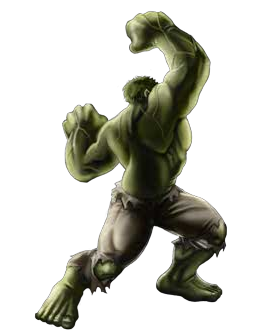
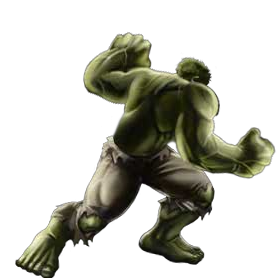
add sprites to all existing characters for jump, hit, and portrait.

diff --git a/js/images.js b/js/images.js
@@ -4,12 +4,15 @@ var backdrop;
 //Character Sprites array
 var heroSprites = [];
 
-function Sprites(neutral, attack, block, special, range) {
+function Sprites(neutral, attack, block, special, range, jump, hit, portrait) {
   this.neutral = neutral;
   this.attack = attack;
   this.block = block;
   this.special = special;
   this.range = range;
+  this.jump = jump;
+  this.hit = hit;
+  this.portrait = portrait;
   heroSprites.push(this);
 }
 
@@ -22,21 +25,30 @@ function preload() {
   loadImage('https://i.imgur.com/uZm54mX.png'),
   loadImage('https://i.imgur.com/U8EW5re.png'),
   loadImage('https://i.imgur.com/j7UjIdP.png'),
-  loadImage('https://i.imgur.com/C6VfCFx.png'));
+  loadImage('https://i.imgur.com/C6VfCFx.png'),
+  loadImage('https://i.imgur.com/HuRSzhv.png'),
+  loadImage('https://i.imgur.com/HEPQIFh.png'),
+  loadImage('https://i.imgur.com/HWV6qsZ.png'));
 
   //Hulk [1]
   new Sprites(loadImage('https://i.imgur.com/daAdlYF.png'),
-  loadImage('https://i.imgur.com/Eg7ORuy.png'),
+  loadImage('https://i.imgur.com/nc61aYu.png'),
   loadImage('https://i.imgur.com/3o0afq3.png'),
   loadImage('https://i.imgur.com/jcarFX3.png'),
-  loadImage('https://i.imgur.com/sXXs4Kv.png'));
+  loadImage('https://i.imgur.com/sXXs4Kv.png'),
+  loadImage('https://i.imgur.com/VeYEz0V.png'),
+  loadImage('https://i.imgur.com/SNqc7Xs.png'),
+  loadImage('https://i.imgur.com/qWonHLw.png'));
 
   //Black Widow [2]
   new Sprites(loadImage('https://i.imgur.com/ggZosIJ.png'),
   loadImage('https://i.imgur.com/3RJZ2ms.png'),
   loadImage('https://i.imgur.com/xKu87V7.png'),
   loadImage('https://i.imgur.com/EQ0Mrvi.png'),
-  loadImage('https://i.imgur.com/5UOHZWl.png'));
+  loadImage('https://i.imgur.com/5UOHZWl.png'),
+  loadImage('https://i.imgur.com/elJT77X.png'),
+  loadImage('https://i.imgur.com/Va4iWk7.png'),
+  loadImage('https://i.imgur.com/kXy83AW.png'));
 
   //RIGHT SIDE CHARACTERS
   //Captain America [3]
@@ -44,18 +56,28 @@ function preload() {
   loadImage('https://i.imgur.com/ZhNlTU1.png'),
   loadImage('https://i.imgur.com/0efMinz.png'),
   loadImage('https://i.imgur.com/SSmuGRh.png'),
-  loadImage('https://i.imgur.com/N9misJ7.png'));
+  loadImage('https://i.imgur.com/N9misJ7.png'),
+  loadImage('https://i.imgur.com/GcDh8x1.png'),
+  loadImage('https://i.imgur.com/dBEpsGu.png'),
+  loadImage('https://i.imgur.com/zkS7aCv.png'));
 
   //Thor [4]
-  new Sprites(loadImage('https://i.imgur.com/Dd7gsqn.png'),
+  new Sprites(loadImage('https://i.imgur.com/xGSZDhF.png'),
   loadImage('https://i.imgur.com/VGmDlkr.png'),
   loadImage('https://i.imgur.com/x34SXto.png'),
   loadImage('https://i.imgur.com/4LBlDdv.png'),
-  loadImage('https://i.imgur.com/6PLFZq2.png'));
+  loadImage('https://i.imgur.com/6PLFZq2.png'),
+  loadImage('https://i.imgur.com/carE2jd.png'),
+  loadImage('https://i.imgur.com/2bpJBvZ.png'),
+  loadImage('https://i.imgur.com/YAPM8qm.png'));
 
   //Scarlet Witch [5]
   new Sprites(loadImage('https://i.imgur.com/HiTHeQu.png'),
-  loadImage('https://i.imgur.com/U7md2BW.png'),
-  loadImage('https://i.imgur.com/sifLeDp.png'),
-  loadImage('https://i.imgur.com/zrHOnVN.png'), )
+  loadImage('https://i.imgur.com/C5zhftO.png'),
+  loadImage('https://i.imgur.com/1Qp0jSR.png'),
+  loadImage('https://i.imgur.com/0MKU90M.png'),
+  loadImage('https://i.imgur.com/9KgajYU.png'),
+  loadImage('https://i.imgur.com/ncmjw0Q.png'),
+  loadImage('https://i.imgur.com/qMAyPU0.png'),
+  loadImage('https://i.imgur.com/dNzHdyi.png'));
 }
